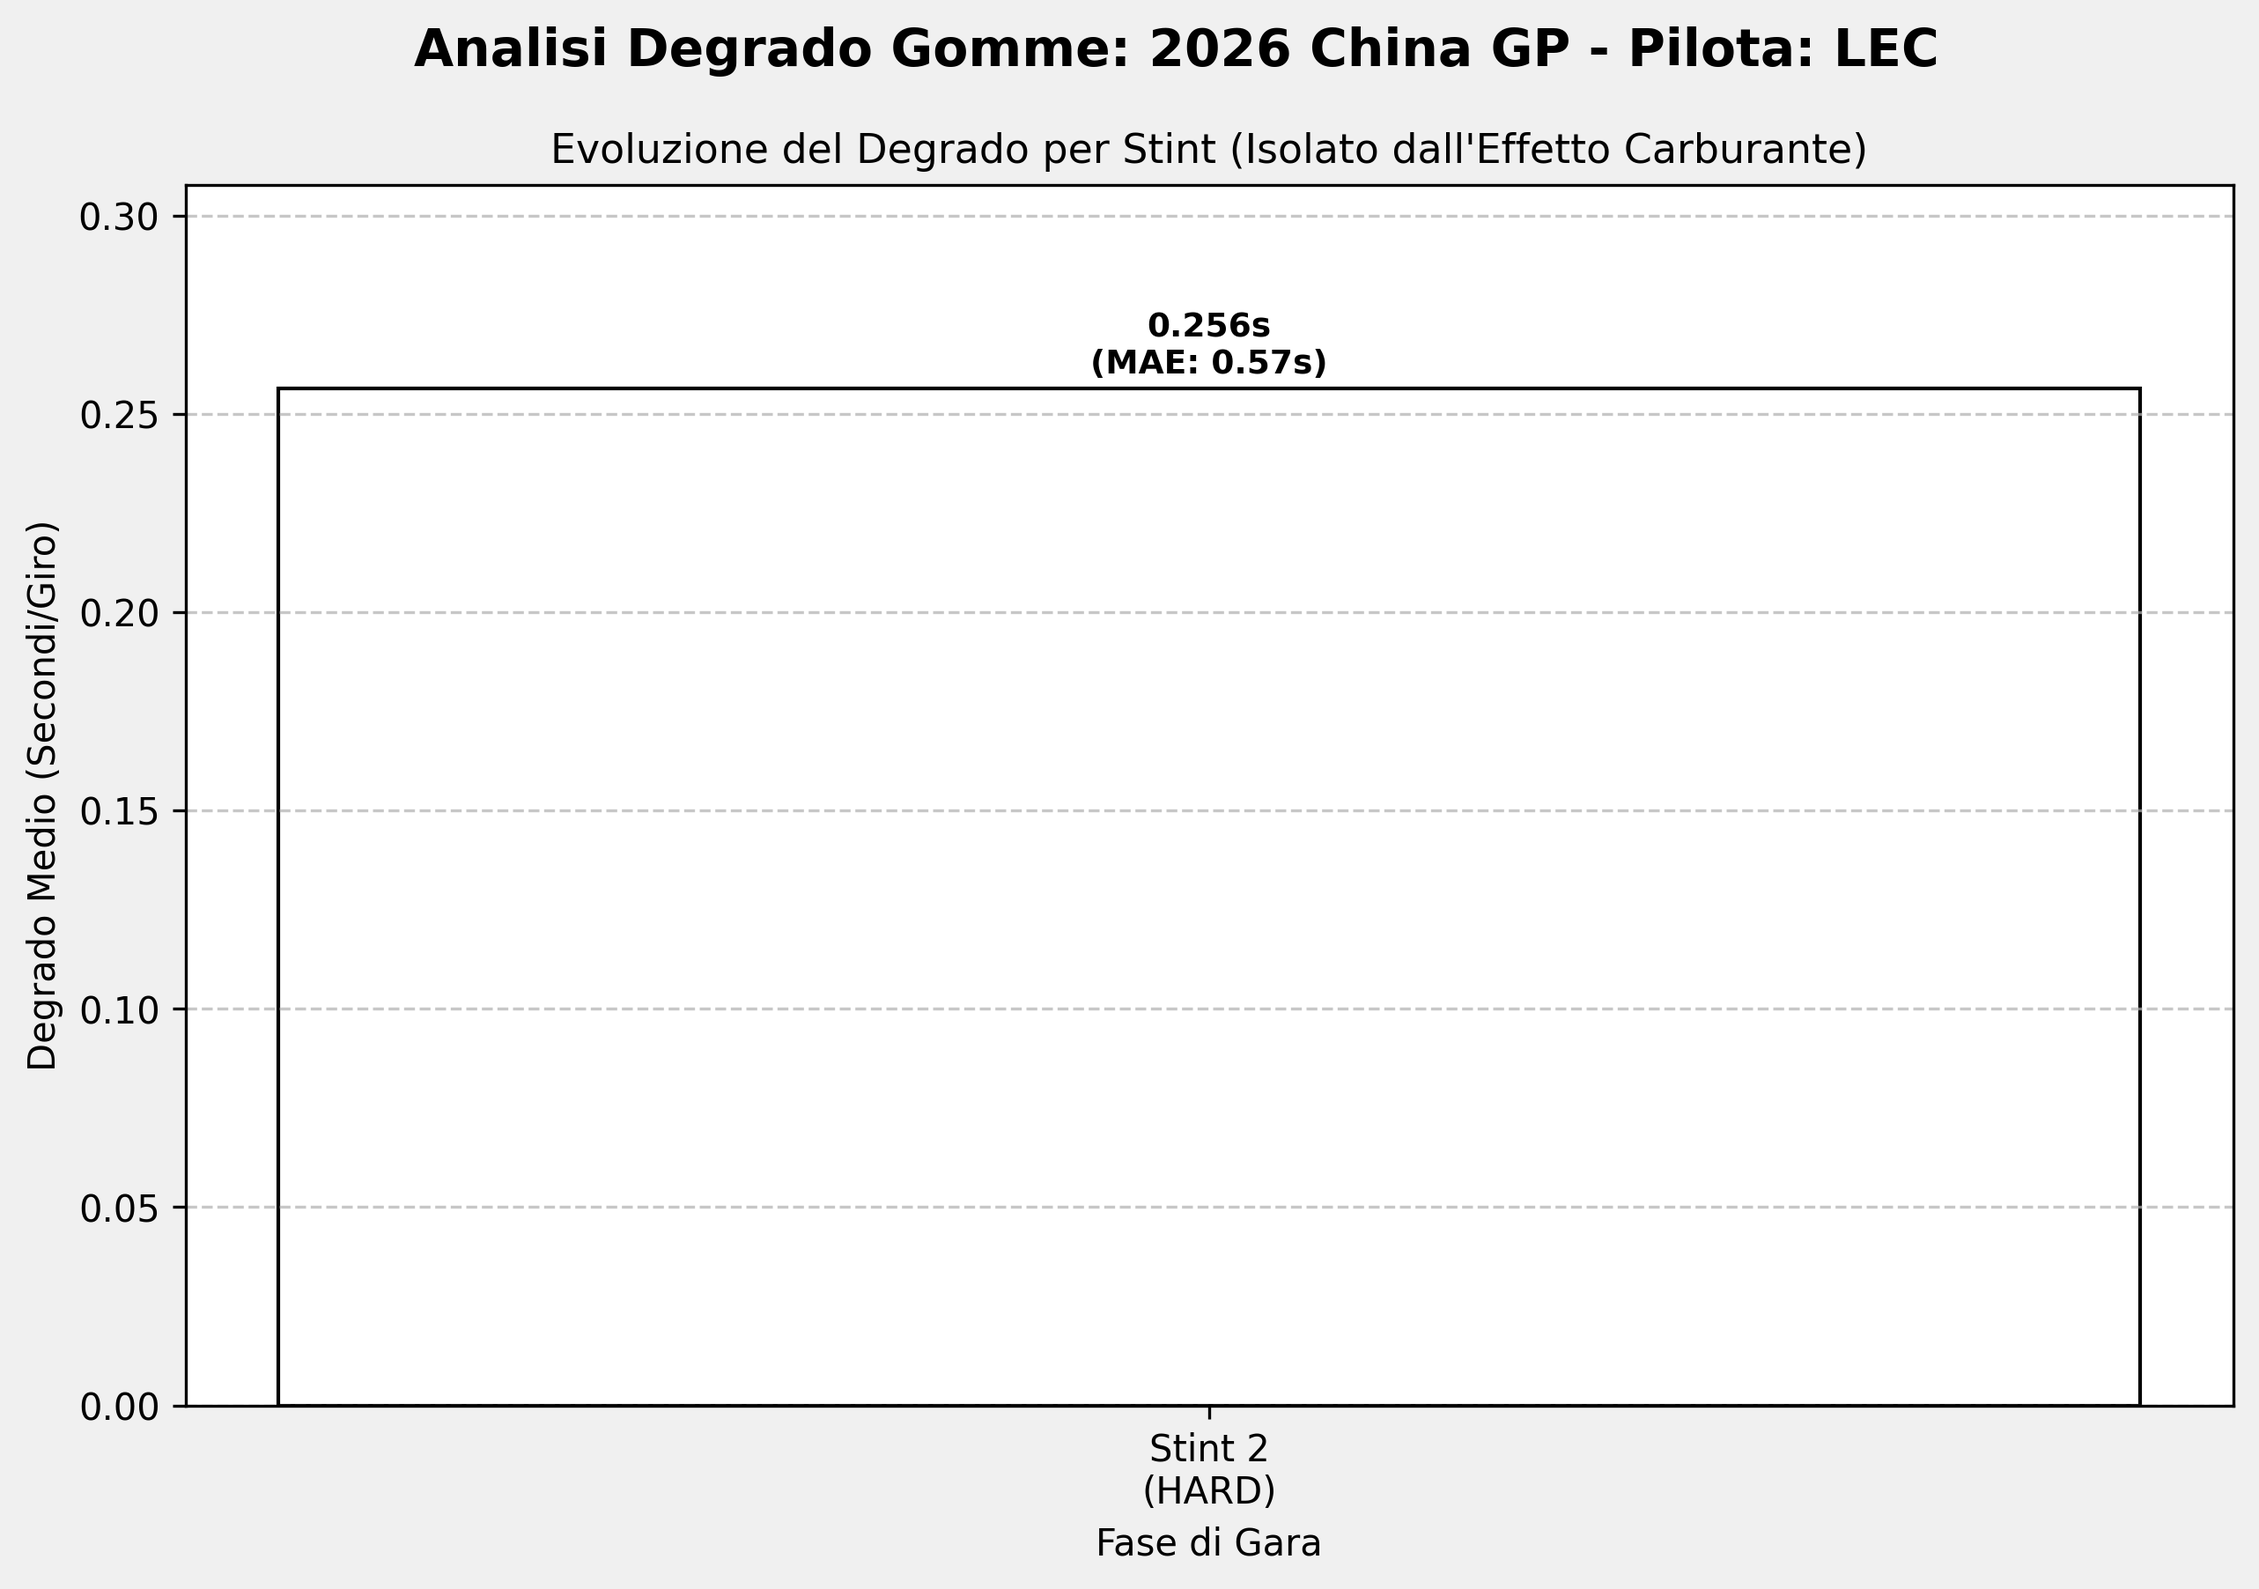
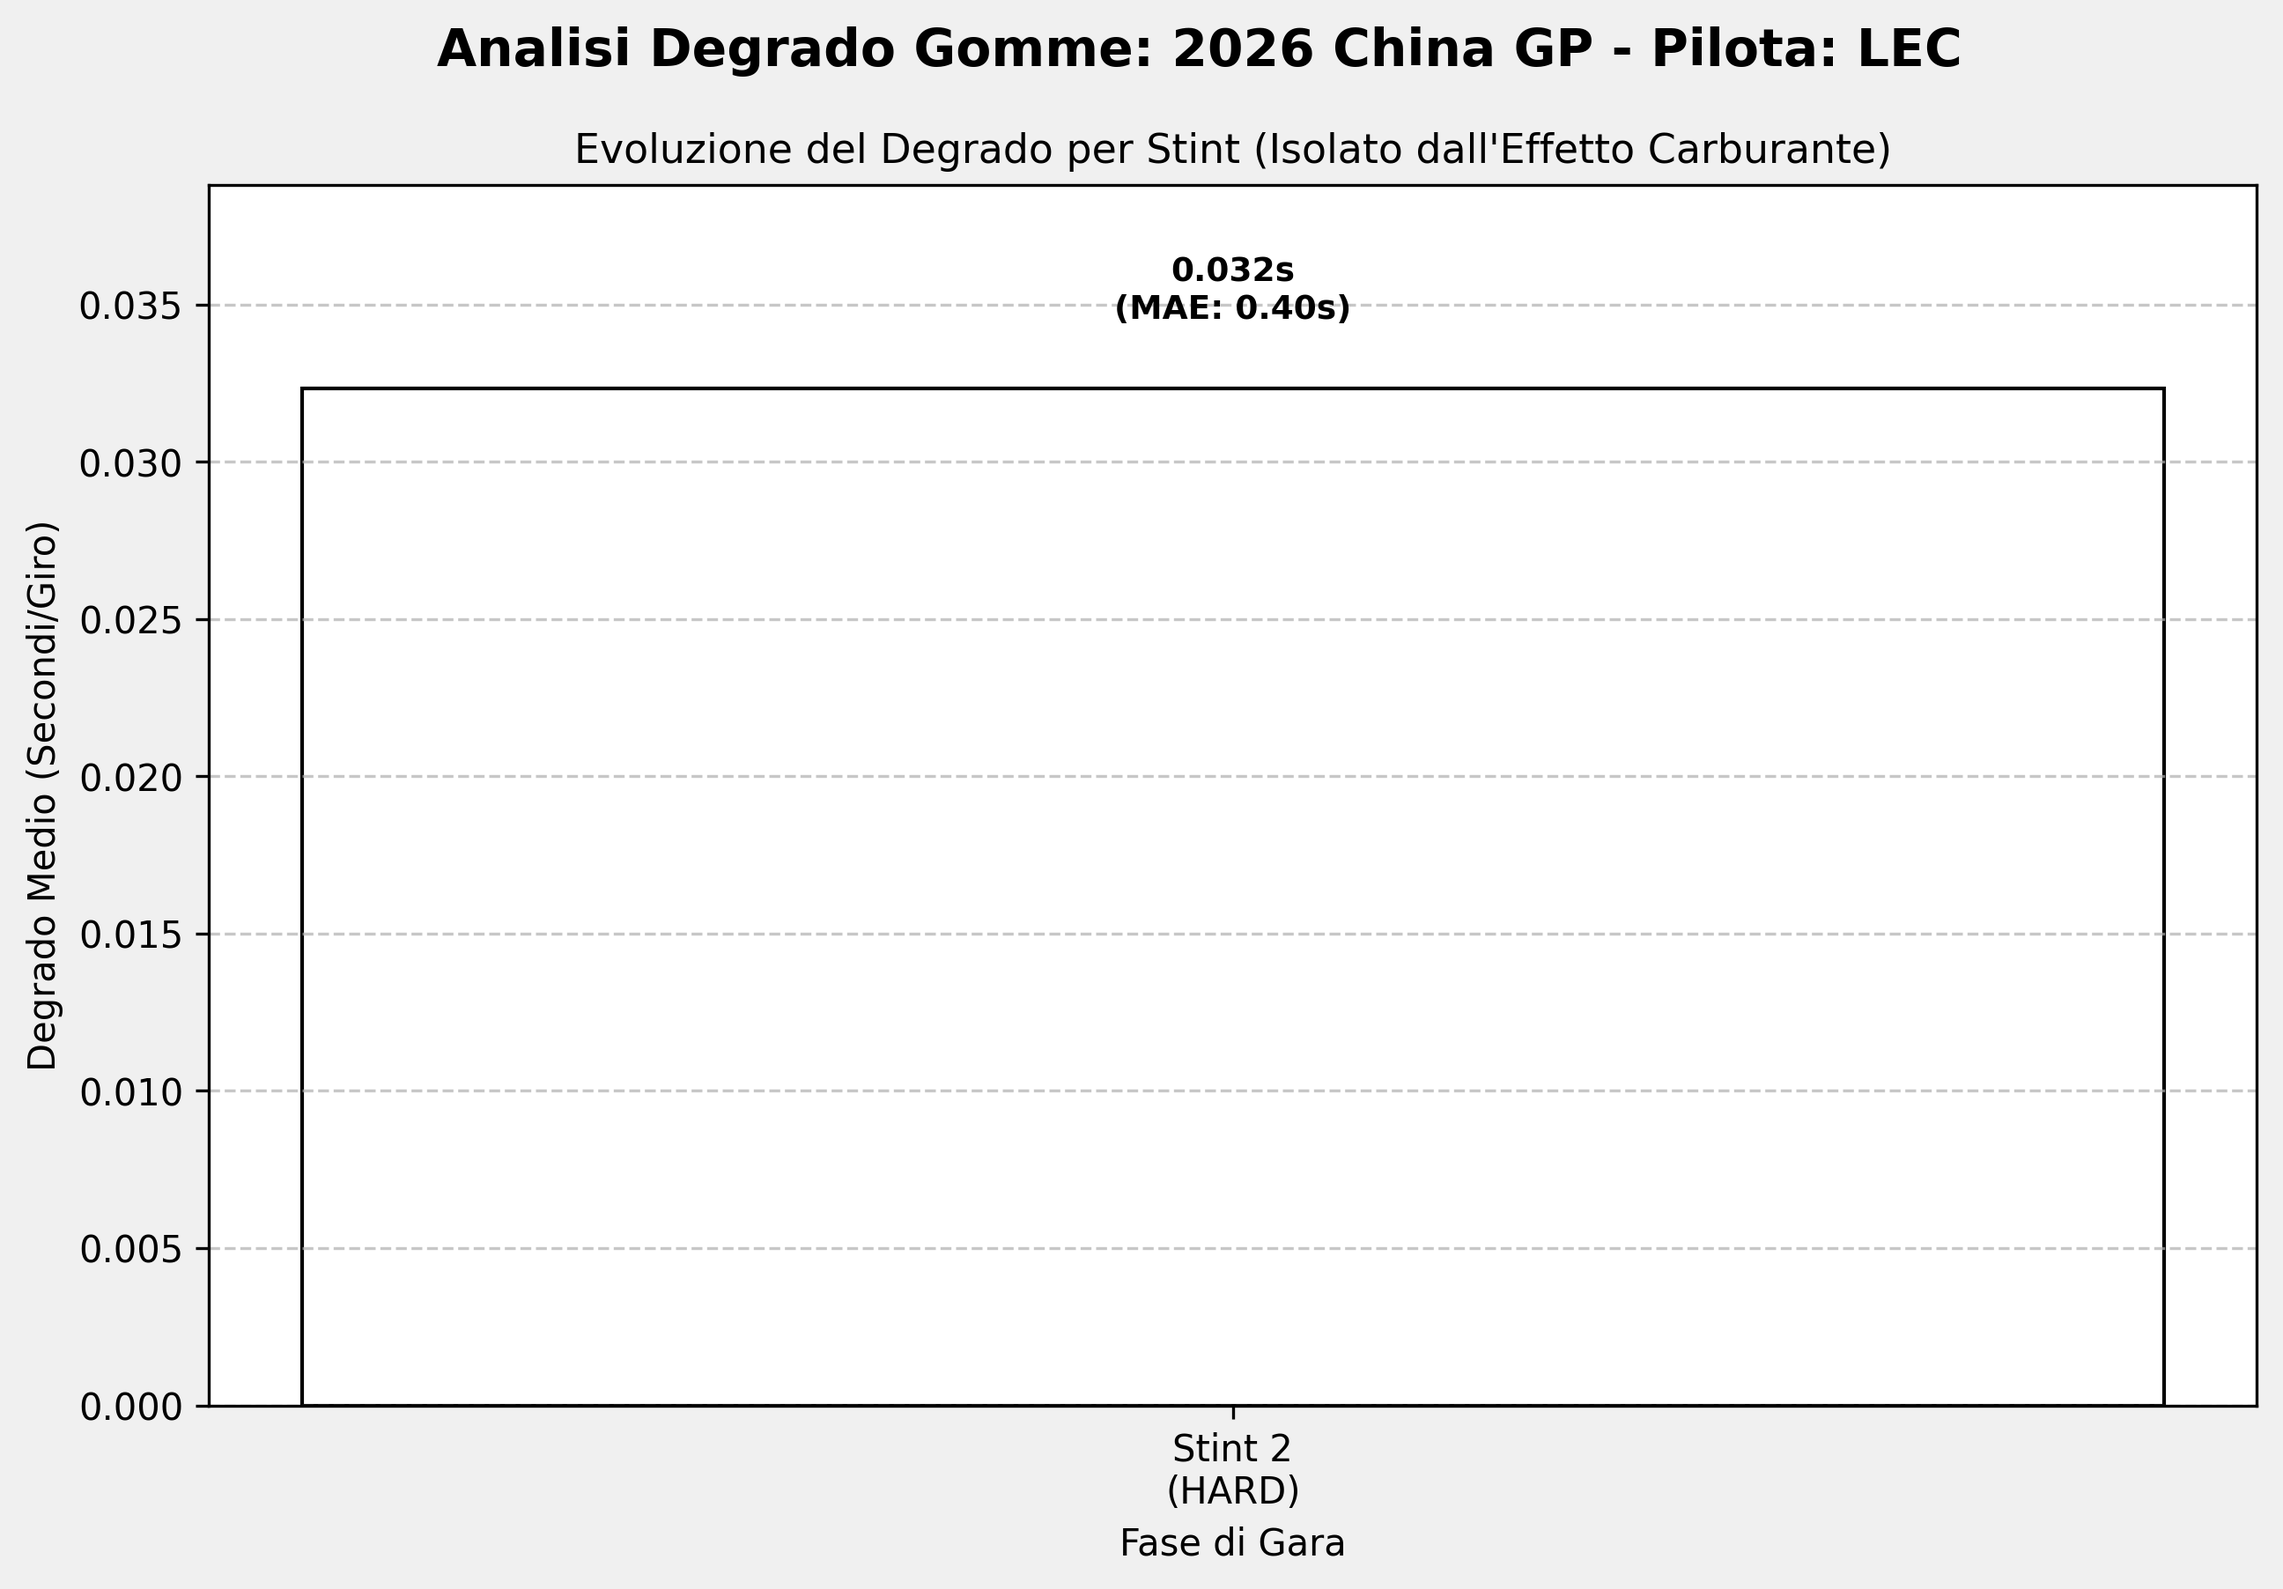
no trackTemp in features

diff --git a/src/plotter.py b/src/plotter.py
@@ -1,10 +1,13 @@
 import matplotlib.pyplot as plt
+import numpy as np
+import pandas as pd
 import os
 
 def save_plots(df, model, stint, compound, mae, year, gp, driver, folder):
     """
     Genera e salva i grafici del degrado per visualizzare l'output del modello ML
     sovrapposto ai dati reali della telemetria, includendo contesto ed errore.
+    La curva predittiva viene calcolata a temperatura costante per una visualizzazione fluida.
     """
 
     plt.figure(figsize=(10, 6))
@@ -21,14 +24,27 @@ def save_plots(df, model, stint, compound, mae, year, gp, driver, folder):
         color="blue", alpha=0.7, label="Dati Corretti (Solo Degrado)"
     )
 
-    # Linea di tendenza del modello ML
-    df_sorted = df.sort_values("TyreLife")
-    y_pred = model.predict(df_sorted[["TyreLife", "TyreLife2", "TrackTemp"]])
+    # --- FIX: Generazione di una curva predittiva morbida ---
+    # 1. Calcoliamo la temperatura media della pista in questo stint
 
+    # 2. Creiamo 100 punti fittizi lungo la vita della gomma per una curva fluida
+    x_smooth = np.linspace(df["TyreLife"].min(), df["TyreLife"].max(), 100)
+    
+    # 3. Prepariamo l'input per il modello mantenendo la temperatura costante
+    df_smooth = pd.DataFrame({
+        "TyreLife": x_smooth,
+        "TyreLife2": x_smooth ** 2,
+    })
+    
+    # 4. Predizione sulla curva ideale
+    y_pred_smooth = model.predict(df_smooth)
+
+    # Plot della nuova linea di tendenza
     plt.plot(
-        df_sorted["TyreLife"], y_pred,
-        linewidth=3, color="red", label="Trend Predittivo (ML)"
+        x_smooth, y_pred_smooth,
+        linewidth=3, color="red", label="Trend ML (Temp. Costante)"
     )
+    # ---------------------------------------------------------
 
     plt.xlabel("Vita Gomma (Giri)")
     plt.ylabel("Tempo sul Giro (s)")
@@ -58,7 +74,7 @@ def plot_summary_bar_chart(df_results, output_folder):
 
     plt.figure(figsize=(10, 6))
     
-    # Estrazione metadati dal dataframe per il titolo (basta prenderli dalla prima riga)
+    # Estrazione metadati dal dataframe per il titolo
     year = df_results["Year"].iloc[0]
     gp = df_results["GP"].iloc[0]
     driver = df_results["Driver"].iloc[0]
@@ -72,10 +88,7 @@ def plot_summary_bar_chart(df_results, output_folder):
         "WET": "blue"
     }
     
-    # Creiamo etichette uniche per l'asse X (es. "Stint 1\n(MEDIUM)")
     x_labels = [f"Stint {int(row['Stint'])}\n({row['Compound']})" for _, row in df_results.iterrows()]
-    
-    # Mappiamo i colori riga per riga basandoci sulla mescola di quello stint
     bar_colors = [colors.get(row['Compound'].upper(), "gray") for _, row in df_results.iterrows()]
 
     bars = plt.bar(
@@ -92,12 +105,11 @@ def plot_summary_bar_chart(df_results, output_folder):
     plt.ylabel("Degrado Medio (Secondi/Giro)")
     plt.grid(axis='y', linestyle='--', alpha=0.7)
 
-    # Aggiungo i testi con i valori esatti in cima ad ogni barra (Degrado + MAE)
+    # Aggiungo i testi con i valori esatti in cima ad ogni barra
     for bar, (_, row) in zip(bars, df_results.iterrows()):
         yval = bar.get_height()
         mae = row['MAE_Sec']
         
-        # Formattazione del testo per avere su due righe degrado e MAE
         testo = f"{yval:.3f}s\n(MAE: {mae:.2f}s)"
         
         plt.text(
@@ -107,10 +119,8 @@ def plot_summary_bar_chart(df_results, output_folder):
             ha='center', va='bottom', fontweight='bold', fontsize=9
         )
 
-    # Aumento il limite dell'asse Y del 20% per far spazio alle due righe di testo sulle barre
     plt.ylim(0, df_results["Degradation"].max() * 1.2)
-
-    # Sfondo grigio chiaro per far risaltare la barra bianca (HARD)
+    
     plot_path = os.path.join(output_folder, "stint_comparison.png")
     plt.savefig(plot_path, dpi=300, facecolor='#f0f0f0', bbox_inches='tight') 
     plt.close()

diff --git a/src/modelTraining.py b/src/modelTraining.py
@@ -21,7 +21,7 @@ def train_degradation_model(df):
     df["LapTime_FuelCorrected"] = df["LapTime_Sec"] - (df["Fuel_Est"] * FUEL_EFFECT_SEC_PER_KG)
 
     # Definisco le feature per il ML (escluso il carburante, già gestito)
-    X = df[["TyreLife", "TyreLife2", "TrackTemp"]]
+    X = df[["TyreLife", "TyreLife2"]]
     y = df["LapTime_FuelCorrected"]
 
     # Implementazione K-Fold Dinamica
